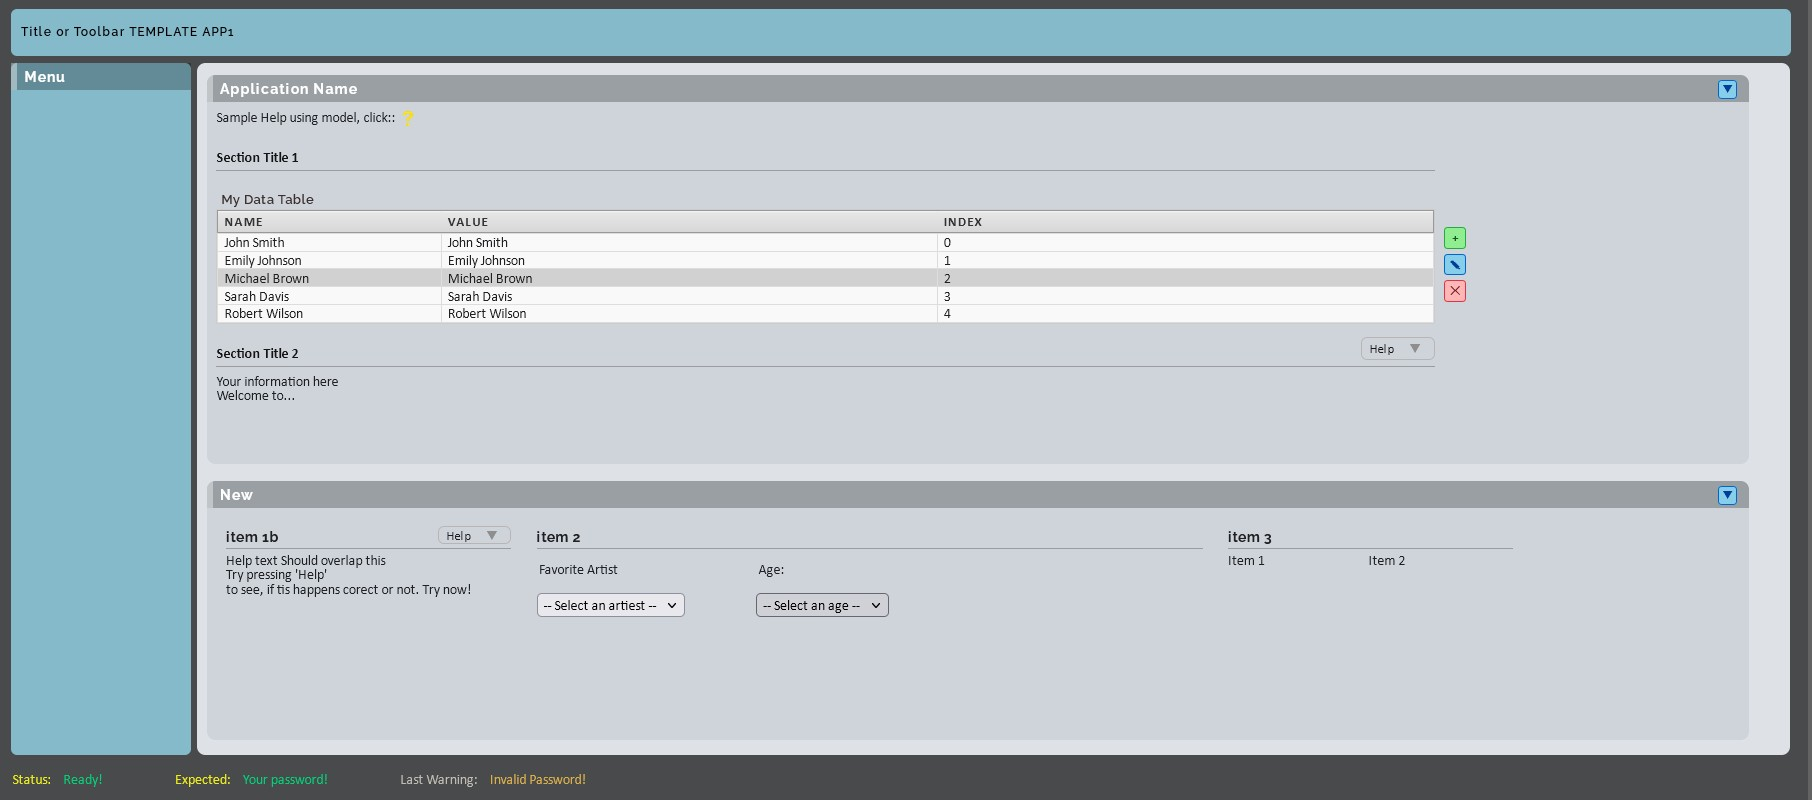
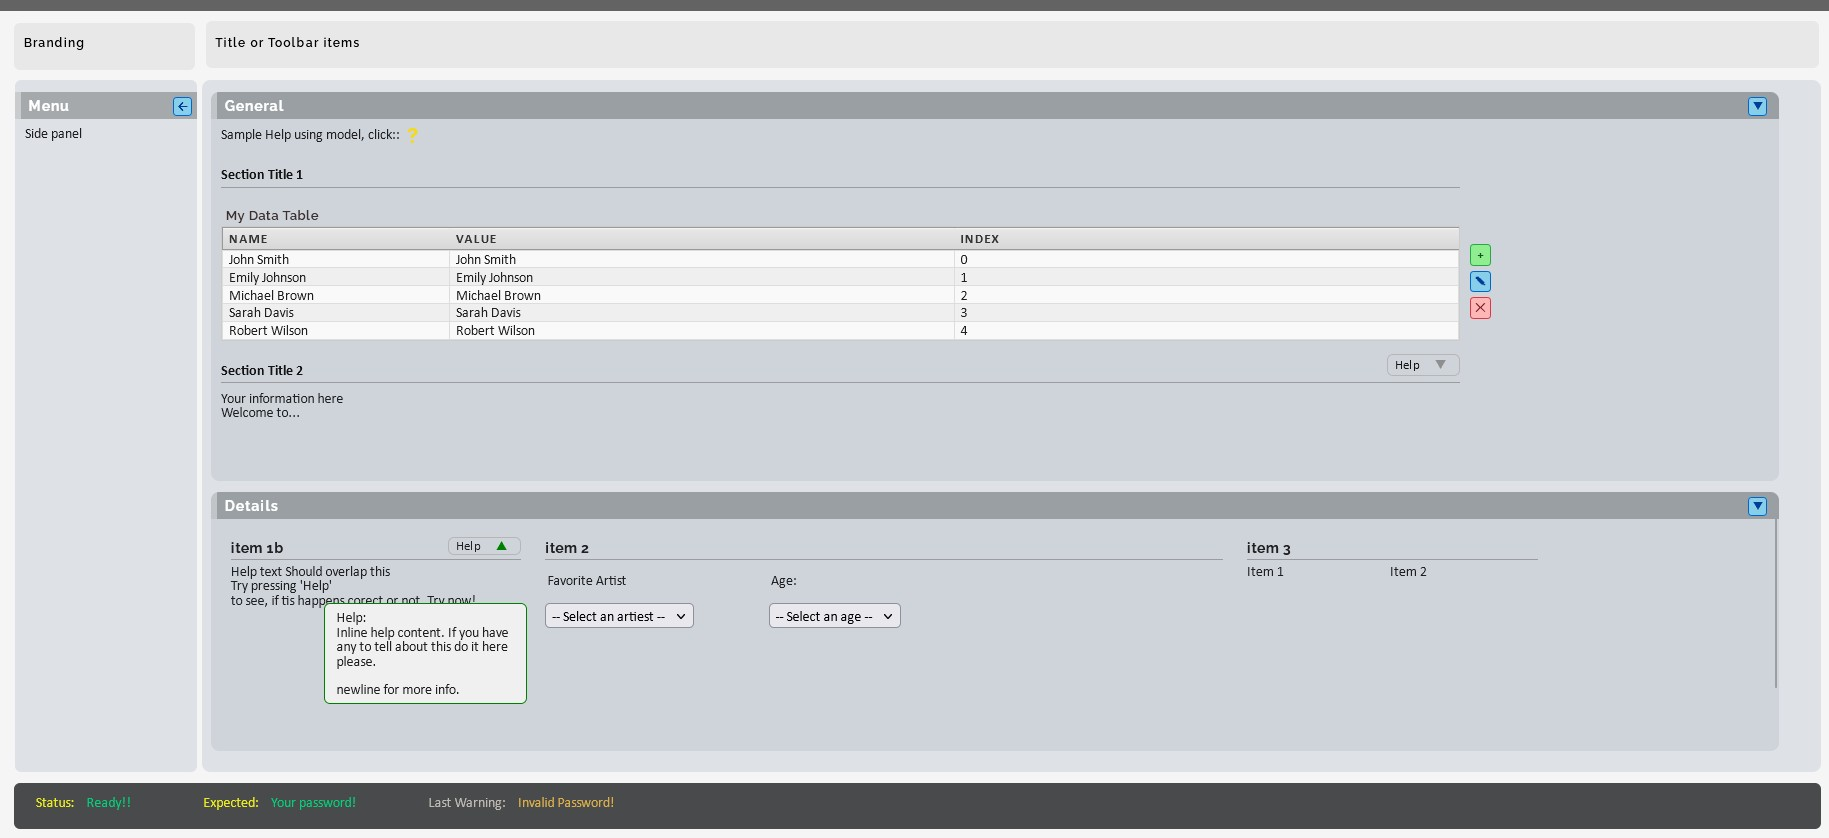
Modernized the layout for the MVC Template application(see image)

diff --git a/NET-Core-8/workspace/.vscode-templates/mvc/cookiecutter-dotnet-mvc/{{cookiecutter.solution_name}}/{{cookiecutter.app_name}}/wwwroot/css/site.css b/NET-Core-8/workspace/.vscode-templates/mvc/cookiecutter-dotnet-mvc/{{cookiecutter.solution_name}}/{{cookiecutter.app_name}}/wwwroot/css/site.css
@@ -125,10 +125,12 @@ h1, h2, h3, h4, h5, h6
   
   --nje-bk-color-green: #abcfb7;
   --nje-bk-color-green: #84baca;
-  --nje-bk-color-blue: #484a4b; 
+  --nje-bk-color-green: #E8E8E8;  /* Toolbar and side bar items*/
+  --nje-bk-color-blue: #F5F5F5;    /*Farest backroung*/
   --nje-bk-color-purple: #CED4DA; 
   --nje-bk-color-orange: #CED4DA;  
   --nje-bk-color-red: #DEE2E6;
+  --nje-bk-color-status: #484a4b; 
 
   
 }
@@ -165,12 +167,14 @@ h1, h2, h3, h4, h5, h6
        flex-end              => oragnizes childs from right to left on the x-ass 
        space-around;     => oragnizes childs from left to right on the x-ass  with space around the child blocks  */ 
   justify-content:  flex-start;
-  gap: 5px;                                                     /* Space between these Items t */
+  gap: 4px;                                                     /* Space between these Items t */
+  row-gap: 111px;
   overflow: visible;
   padding-top: 0px;
   padding-bottom:8px;  
   color:#100000;                                        /* A default text color, in case it is not overidden by the child element*/
   flex-direction: var(--nje-flex-direction);      /* default: row*/
+  
   /*align-items: center;  if need parameter*/
   
 }
@@ -243,7 +247,7 @@ h1, h2, h3, h4, h5, h6
   padding-right: var(--nje-padding-right);
   padding-top:var(--nje-padding-top);
   padding-bottom: var(--nje-padding-bottom);;  
-  margin-bottom:6px;
+  margin-bottom:1px;
   position: relative;
   overflow: visible;
   text-align: left;
@@ -381,7 +385,8 @@ button.collapsible:not(:disabled):active {
   color: #ffffff;                                                 /* color: #e8e8e8;*   color:#b8b8b8 d0d0d0; */  
   background-color: rgba(0, 0, 0, 0.25);          /* This creates the more dark background tone in the title*/
   padding: 4px 6px;
-  margin: -10px -8px 6px -8px;       /*text-transform: uppercase;*/
+  margin: -10px -8px 6px -8px;    
+  margin-top: var(--nje-override-top-margin, -10px);
   letter-spacing: 0.5px; 
   border-left: 5px solid rgba(255, 255, 255, 0.40); /*0.30  0.35  0.40  0.50*/
   font-family: 'Raleway', sans-serif;
@@ -407,7 +412,7 @@ button.collapsible:not(:disabled):active {
   line-height: 1.3;
 }
 
-/*Special cases for spefic ID's regarding nje-contentbox-flex-child 
+/* Special cases for spefic ID's regarding nje-contentbox-flex-child 
 -----------------------------------------------------------------------------------------------------------------------------------------------------------------*/      
 #toolbar 
 {
@@ -422,13 +427,100 @@ button.collapsible:not(:disabled):active {
   margin-left:-4px;
 }
 
-#panel
+#worksheet
 {
-  margin-left:9px;
+  flex: 1 1 0;
 }
 
 /* END Customized:  Flex box Structure
 ============================================================================================== */
+
+
+
+/*
+   ============================================================================================
+   COLLAPSIBLE PANEL  SYSTEM
+   ============================================================================================
+
+   USAGE:
+                  <div id="panel_1" class="nje-contentbox-flex-child panel" style=" --nje-panel-height:35vh; --nje-width-perc: 10%; ...">
+                      <button class="panel-toggle" style="position: absolute; right: 4px; top: 4px; z-index: 10;" aria-label="Collapse panel"><span class="panel-arrow">&#8592;</span></button>
+                      <div class="panel-content">Side panel</div>
+                  </div>
+   
+                  Style variable (optional)   --nje-panel-height
+                  Set the heigt of the sidebar, default 80vh
+                  Note that you can create multiple side panels if you need to 
+
+   JAVASCRIPT REQUIRED:
+   - site.js handles button clicks and toggling
+
+   ============================================================================================ */
+
+/* Ttoggle button styling */
+.panel-toggle {
+  display: block;
+  width: 16px;
+  height: 16px;
+  margin: 0;
+  padding: 0;
+  border: 1px solid #0066cc;
+  border-radius: 3px;
+  background-color: #87CEEB;
+  color: #003d99;
+  font-size: 10px;
+  font-weight: bold;
+  cursor: pointer;
+  transition: all 0.15s ease;
+  outline: none;
+  line-height: 1;
+}
+
+.panel-toggle:not(:disabled):hover {
+  background-color: #4A90E2;
+  transform: scale(1.14);
+  box-shadow: 0 1px 3px rgba(0, 0, 0, 0.3);
+}
+
+.panel-toggle:not(:disabled):active {
+  transform: scale(0.9);
+}
+
+/* Panel:  Expanded state  */
+.panel
+{
+  margin-left:9px;
+  height: var(--nje-panel-height, 80vh) !important;              /* SHOULD Match worksheet height! */
+  min-height: var(--nje-panel-height, 80vh) !important;
+  max-height: var(--nje-panel-height, 80vh) !important;
+  transition: flex-basis 0.3s ease, max-width 0.3s ease, min-width 0.3s ease, padding 0.3s ease, height 0.3s ease, min-height 0.3s ease;
+}
+/* Panel: Collapsed state */
+.panel.collapsed {
+    flex-basis: 25px !important;
+    max-width: 25px !important;
+    min-width: 25px !important;
+    padding: 2px !important;
+    height: var(--nje-panel-height, 80vh) !important;              /* SHOULD Match worksheet height! */
+    min-height: var(--nje-panel-height, 80vh) !important;
+    max-height: var(--nje-panel-height, 80vh) !important;
+}
+
+/* Header when collapsed */
+.panel.collapsed::before {
+    display: none !important;
+}
+
+/* Hide panel content when collapsed */
+.panel.collapsed .panel-content {
+    display: none;
+}
+
+/*  --------------------------------------------------------------------------------------------------------------------------------------------------------------
+END COLLAPSIBLE PANEL  SYSTEM
+*/
+
+
 
 
 /* Title Header 
@@ -1075,6 +1167,12 @@ Clicking empty space removes selection and disables buttons
   border: 1px solid #ccc;
 }
 
+/* Streeped rows */
+.nje-table-wrapper tr:nth-child(even) 
+{ 
+  background-color: rgba(0,0,0,0.04); 
+}
+
 /* Scrollable body container - scrollbar starts below header */
 .nje-table-body-scroll {
   max-height: var(--nje-table-max-height, none);
@@ -1084,7 +1182,7 @@ Clicking empty space removes selection and disables buttons
 }
 
 .nje-table {
-  table-layout: fixed;  /* ← This is required */
+  table-layout: fixed; 
   width: 100%;
   border-collapse: collapse;
   font-size: 12px;
@@ -1188,7 +1286,7 @@ Clicking empty space removes selection and disables buttons
 }
 
 .nje-table tr:hover {
-  background-color: #e8e8e8;
+  background-color: lightblue;;
 }
 
 .nje-table .selected {

diff --git a/NET-Core-8/workspace/.vscode-templates/mvc/cookiecutter-dotnet-mvc/{{cookiecutter.solution_name}}/{{cookiecutter.app_name}}/wwwroot/js/site.js b/NET-Core-8/workspace/.vscode-templates/mvc/cookiecutter-dotnet-mvc/{{cookiecutter.solution_name}}/{{cookiecutter.app_name}}/wwwroot/js/site.js
@@ -80,6 +80,7 @@ actionButtons.forEach((btn) =>
     - For CSS class: nje-contentbox-flex-child 
  =====================================================================*/
  document.addEventListener('DOMContentLoaded', RegisterCollapsibleButtons);  
+ document.addEventListener('DOMContentLoaded', InitSidePanel );
  window.addEventListener('load', initWasm);
 
 
@@ -140,6 +141,45 @@ function Toggle(elementId, button) {
 
 /* END Collapse
  =====================================================================*/
+
+
+
+/* BEGIN Side Panel Toggle
+   Separate from the generic collapsible system
+   =====================================================================*/
+function InitSidePanel() 
+{
+    //const panel = document.getElementById('panel');
+    const panel = document.querySelector('.panel');
+    const btn = panel ? panel.querySelector('.panel-toggle') : null;
+    const arrow = btn ? btn.querySelector('.panel-arrow') : null;
+
+    if (!panel || !btn || !arrow) {
+        console.warn('Side panel elements not found');
+        return;
+    }
+
+    btn.addEventListener('click', function (event) 
+    {
+        event.stopPropagation();
+        const collapsed = panel.classList.toggle('collapsed');
+        
+        if (collapsed) 
+        {
+            arrow.innerHTML = '&#8594;'; // Right arrow
+            btn.setAttribute('aria-label', 'Expand panel');
+        } 
+        else 
+        {
+            arrow.innerHTML = '&#8592;'; // Left arrow
+            btn.setAttribute('aria-label', 'Collapse panel');
+        }
+    });
+}
+/* END Side Panel Toggle
+   =====================================================================*/
+
+  
 
 
 
